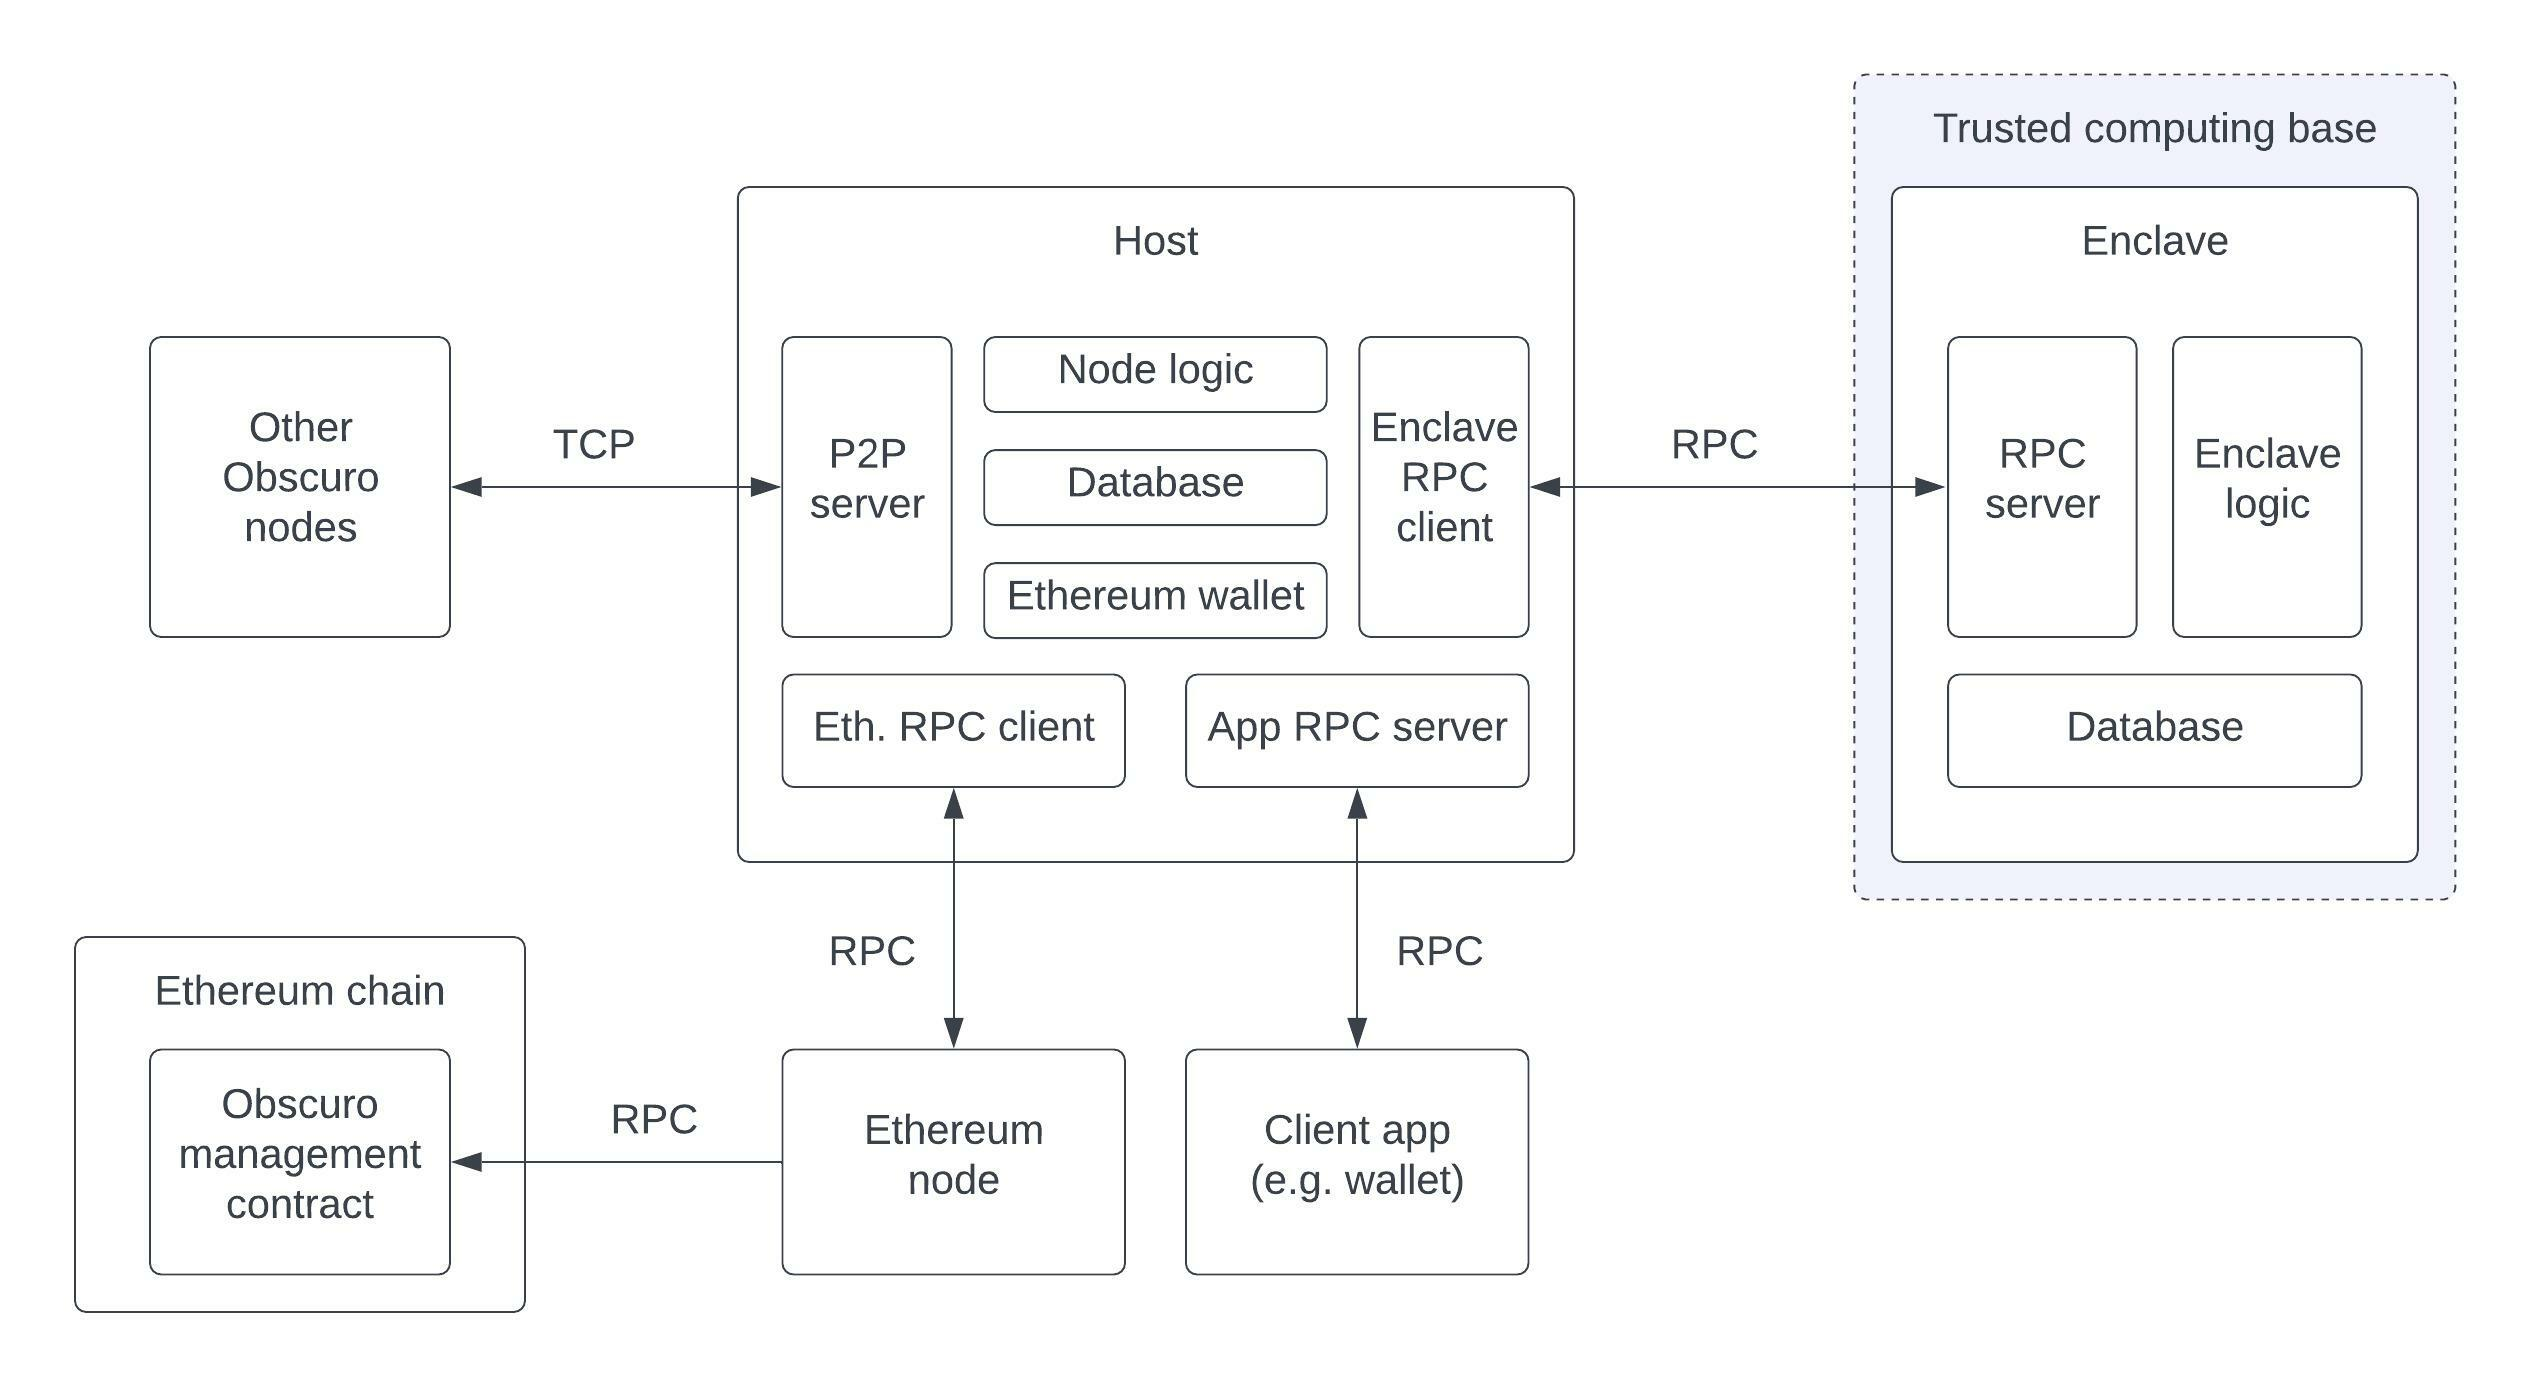
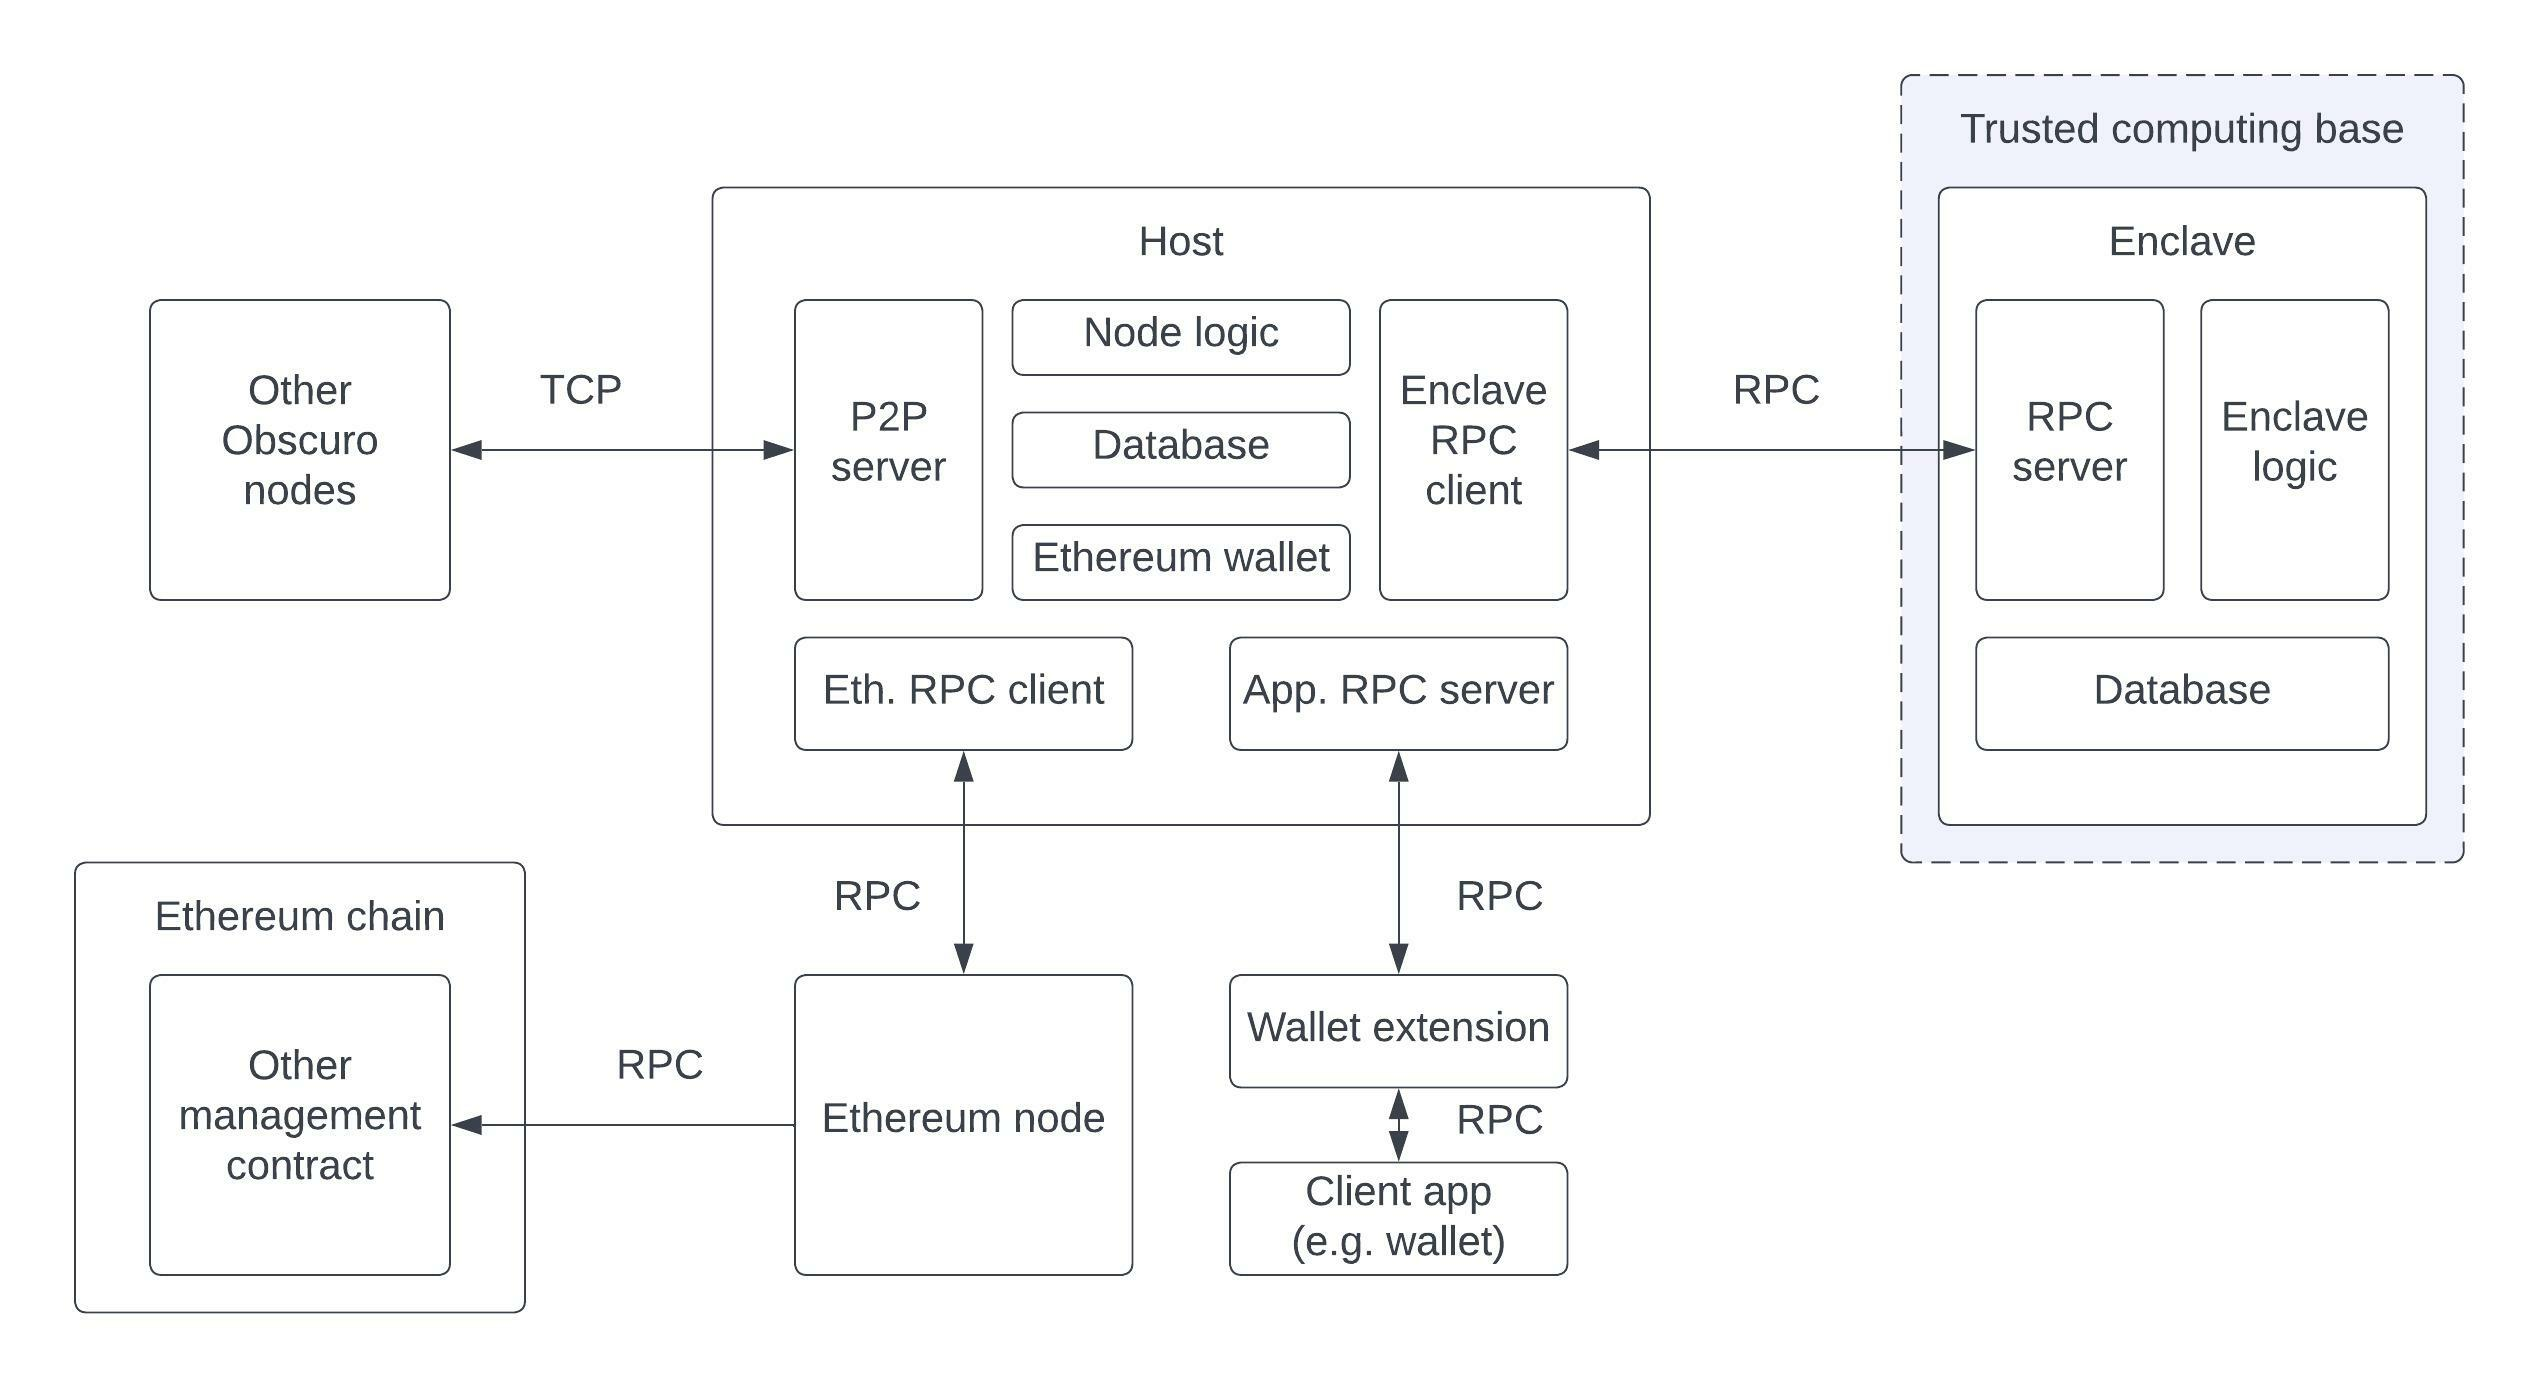
Updates readme.

diff --git a/README.md b/README.md
@@ -17,7 +17,6 @@ The typical blockchain node runs multiple services in a single process. For exam
 Obscuro uses Trusted Execution Environments (TEE), like Intel SGX, to execute transactions in a confidential environment, which means we diverge from the typical architecture. 
 There are three main components of the architecture, each running as a separate process: the Enclave, the Host and the Wallet Extension.
 
-[//]: # (Todo - @joel - change the diagram to represent the Wallet Extension)
 ![Architecture](design/obscuro_arch.jpeg)
 
 ### I. The Enclave
@@ -180,15 +179,13 @@ building blocks of the Enclave*
 
 ### III. The Wallet Extension
 
-The missing link to achieving fully private transactions, while allowing end users to continue using their favourite wallets
-(like MetaMask) is a very thin component that has to be installed on the user machine.
-This component is responsible for the encryption/decryption of the traffic originating from an Obscuro node. It does that 
-by generating Viewing Keys behind the scenes.
+The missing link to achieving fully private transactions while allowing end-users to continue using their favourite 
+wallets (like MetaMask). This is a very thin component that is responsible for the encrypting and decrypting traffic 
+between the Obscuro node and its clients.
 
-[//]: # (TODO - Joel: want to add anything here)
+For security reasons, this component must be run locally by the user.
 
-See: [tools/walletextension](tools/walletextension)
-
+See [tools/walletextension](tools/walletextension).
 
 ## Repository Structure
 
@@ -221,11 +218,11 @@ root
 │   ├── <a href="./integration/simulation">simulation</a>: A series of tests that simulate running networks with different setups.
 ├── <a href="./testnet">testnet</a>: Utilities for deploying a testnet.
 └── <a href="./tools">tools</a>: Peripheral tooling. 
-│   ├── <a href="./tools/azuredeployer">azuredeployer</a>: Help with deploying obscuro nodes on SGX enabled azure VMs.
-│   ├── <a href="./tools/contractdeployer">contractdeployer</a>: todo - Joel 
-│   ├── <a href="./tools/networkmanager">networkmanager</a>: todo - Joel
-│   ├── <a href="./tools/obscuroscan">obscuroscan</a>: todo - Joel
-│   └── <a href="./tools/walletextension">walletextension</a>: todo - Joel
+│   ├── <a href="./tools/azuredeployer">azuredeployer</a>: Automates deployment of Obscuro nodes to SGX-enabled Azure VMs.
+│   ├── <a href="./tools/contractdeployer">contractdeployer</a>: Automates deployment of ERC20 and management contracts to the L1.
+│   ├── <a href="./tools/networkmanager">networkmanager</a>: Network management tooling. Automates deployment of ERC20 and management contracts to the L1, and allows the injection of transactions into the network to simulate activity.
+│   ├── <a href="./tools/obscuroscan">obscuroscan</a>: Tooling to monitor network transactions.
+│   └── <a href="./tools/walletextension">walletextension</a>: Ensures sensitive messages to and from the Obscuro node are encrypted.
 
 </pre>
 
